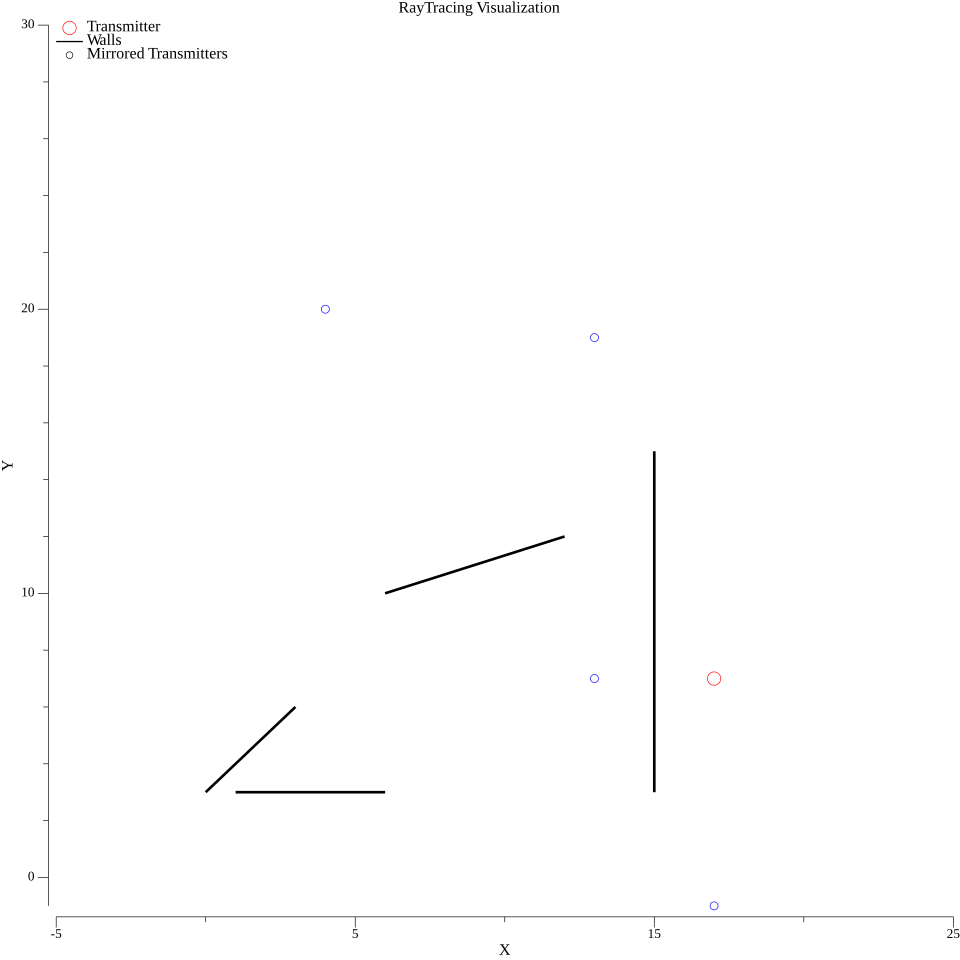
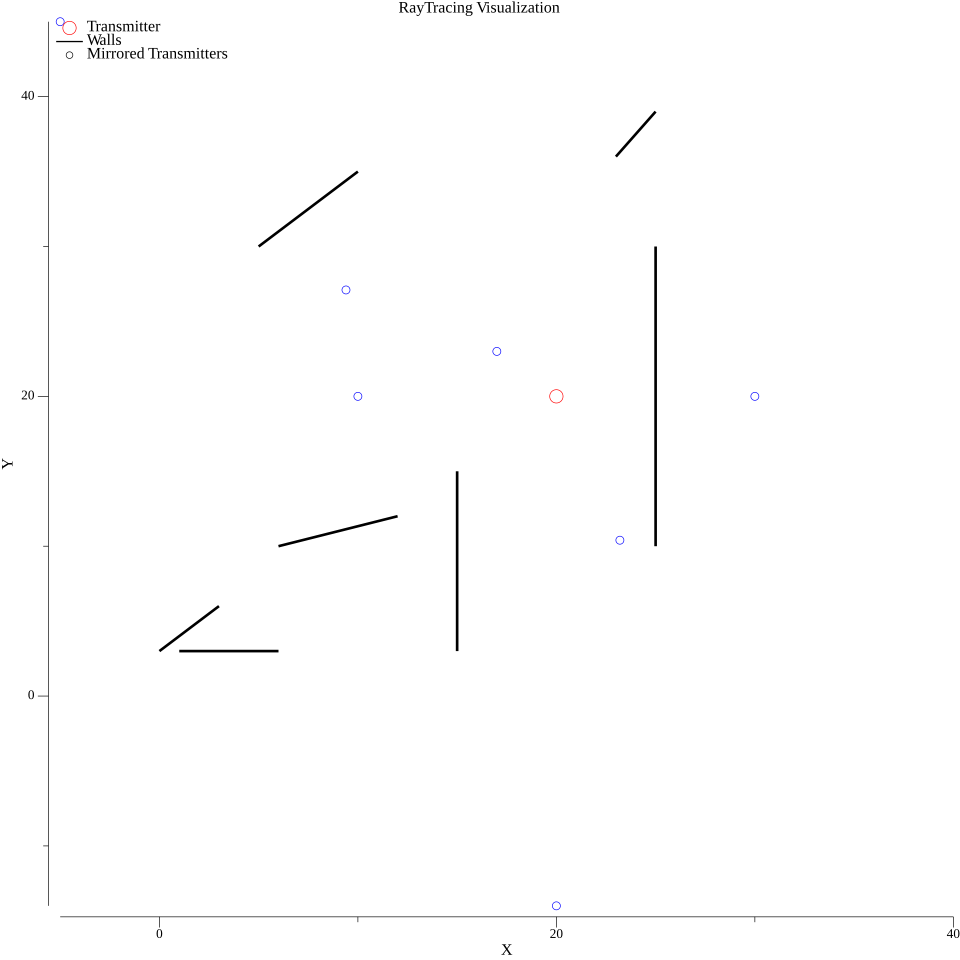
feat: display heat map added

diff --git a/backendGo/utils/2draytracing/main.go b/backendGo/utils/2draytracing/main.go
@@ -1,15 +1,16 @@
 package main
 
 import (
+	"os"
 	"fmt"
-	"image/color"
 	"math"
 	"math/cmplx"
-
+	"image"
+    "image/color"
+    "image/png"
 	"gonum.org/v1/plot"
     "gonum.org/v1/plot/plotter"
     "gonum.org/v1/plot/vg"
-    "gonum.org/v1/plot/palette"
 )
 type Point struct {
 	X, Y float64
@@ -173,80 +174,30 @@ func twoVectors(A, B, C, D Point) int8 {
 }
 
 // Interpolacja kolorów między niebieskim a czerwonym
-func interpolateColor(value, min, max float64) color.RGBA {
-    norm := (value - min) / (max - min) // Normalizacja do zakresu [0,1]
-    r := uint8(255 * norm)
-    g := uint8(0)
-    b := uint8(255 * (1 - norm))
-    return color.RGBA{R: r, G: g, B: b, A: 255}
-}
 
 func (rt *RayTracing) PlotVisualization(filename string) error {
     p := plot.New()
-    p.Title.Text = "RayTracing Heatmap"
+    p.Title.Text = "RayTracing Visualization"
     p.X.Label.Text = "X"
     p.Y.Label.Text = "Y"
-
-    // Określenie zakresu wykresu
-    xMin, xMax := 0.0, rt.Matrix[0][len(rt.Matrix[0])-1].X
-    yMin, yMax := 0.0, rt.Matrix[len(rt.Matrix)-1][0].Y
-
-    // Normalizacja osi
-    xRange := xMax - xMin
-    yRange := yMax - yMin
-    if xRange > yRange {
-        diff := (xRange - yRange) / 2
-        yMin -= diff
-        yMax += diff
-    } else {
-        diff := (yRange - xRange) / 2
-        xMin -= diff
-        xMax += diff
-    }
-    p.X.Min, p.X.Max = xMin, xMax
-    p.Y.Min, p.Y.Max = yMin, yMax
-
-    // Znalezienie minimalnej i maksymalnej wartości mocy
-    minPower, maxPower := math.Inf(1), math.Inf(-1)
-    for i := range rt.PowerMap {
-        for j := range rt.PowerMap[i] {
-            if rt.PowerMap[i][j] < minPower {
-                minPower = rt.PowerMap[i][j]
-            }
-            if rt.PowerMap[i][j] > maxPower {
-                maxPower = rt.PowerMap[i][j]
-            }
-        }
-    }
-
-    // Rysowanie mapy cieplnej
-    heatmap := make(plotter.XYs, 0)
-    colors := make([]color.RGBA, 0)
-    for i := range rt.Matrix {
-        for j := range rt.Matrix[i] {
-            heatmap = append(heatmap, plotter.XY{
-                X: rt.Matrix[i][j].X,
-                Y: rt.Matrix[i][j].Y,
-            })
-            colors = append(colors, interpolateColor(rt.PowerMap[i][j], minPower, maxPower))
-        }
-    }
-    scatter, err := plotter.NewScatter(heatmap)
-    if err != nil {
-        return err
-    }
-    scatter.GlyphStyle.Radius = vg.Points(2)
-    scatter.GlyphStyle.Color = color.Transparent // Ustawienie koloru przez własną mapę
-    scatter.ColorMap = plotter.ColorMapFunc(func(x, y float64) color.Color {
-        for k, pt := range heatmap {
-            if pt.X == x && pt.Y == y {
-                return colors[k]
-            }
-        }
-        return color.Black
-    })
-    p.Add(scatter)
-
+    // Ustalanie jednakowej skali dla osi X i Y
+	xMin, xMax := 0.0, rt.Matrix[0][len(rt.Matrix[0])-1].X
+	yMin, yMax := 0.0, rt.Matrix[len(rt.Matrix)-1][0].Y
+	xRange := xMax - xMin
+	yRange := yMax - yMin
+	// Wybieramy większy zakres i dopasowujemy mniejszy
+	if xRange > yRange {
+		diff := (xRange - yRange) / 2
+		yMin -= diff
+		yMax += diff
+	} else {
+		diff := (yRange - xRange) / 2
+		xMin -= diff
+		xMax += diff
+	}
+	// Ustawienie zakresu wykresu po korekcie
+	p.X.Min, p.X.Max = xMin, xMax
+	p.Y.Min, p.Y.Max = yMin, yMax
     // Rysowanie ścian
     for _, wall := range rt.Walls {
         line := plotter.XYs{
@@ -257,31 +208,123 @@ func (rt *RayTracing) PlotVisualization(filename string) error {
         if err != nil {
             return err
         }
-        l.Color = color.Black
+        l.Color = color.RGBA{R: 0, G: 0, B: 0, A: 255}
         l.Width = vg.Points(2)
         p.Add(l)
     }
-
     // Rysowanie transmitera
-    transmitter := plotter.XYs{{X: rt.TransmitterPos.X, Y: rt.TransmitterPos.Y}}
-    tScatter, err := plotter.NewScatter(transmitter)
+    transmitter := plotter.XYs{
+        {X: rt.TransmitterPos.X, Y: rt.TransmitterPos.Y},
+    }
+    transmitterScatter, err := plotter.NewScatter(transmitter)
     if err != nil {
         return err
     }
-    tScatter.Color = color.RGBA{R: 255, G: 0, B: 0, A: 255}
-    tScatter.Radius = vg.Points(5)
-    p.Add(tScatter)
-
+    transmitterScatter.Color = color.RGBA{R: 255, G: 0, B: 0, A: 255}
+    transmitterScatter.Radius = vg.Points(5)
+    p.Add(transmitterScatter)
+    // Rysowanie odbitych transmiterów
+    for _, mt := range rt.MirroredTransmitters {
+        mirroredTransmitter := plotter.XYs{
+            {X: mt.X, Y: mt.Y},
+        }
+        mtScatter, err := plotter.NewScatter(mirroredTransmitter)
+        if err != nil {
+            return err
+        }
+        mtScatter.Color = color.RGBA{R: 0, G: 0, B: 255, A: 255}
+        mtScatter.Radius = vg.Points(3)
+        p.Add(mtScatter)
+    }
+    // Dodanie legendy
+    p.Legend.Add("Transmitter", transmitterScatter)
+    
+    // Tworzymy linię dla legendy
+    legendLine, err := plotter.NewLine(plotter.XYs{{X: 0, Y: 0}, {X: 1, Y: 1}})
+    if err != nil {
+        return err
+    }
+    p.Legend.Add("Walls", legendLine)
+    
+    // Tworzymy punkt dla legendy
+    legendPoint, err := plotter.NewScatter(plotter.XYs{{X: 0, Y: 0}})
+    if err != nil {
+        return err
+    }
+    p.Legend.Add("Mirrored Transmitters", legendPoint)
+    
+    p.Legend.Top = true
+    p.Legend.Left = true
+    // Zapisanie wykresu do pliku
     return p.Save(10*vg.Inch, 10*vg.Inch, filename)
+}
+// GenerateHeatmap tworzy mapę ciepła z tablicy 2D wartości
+func GenerateHeatmap(powerMap [][]float64) *image.RGBA {
+    height := len(powerMap)
+    width := len(powerMap[0])
+    
+    // Znajdź min i max wartości do normalizacji
+    minVal, maxVal := math.Inf(1), math.Inf(-1)
+    for y := 0; y < height; y++ {
+        for x := 0; x < width; x++ {
+            val := powerMap[y][x]
+            if val < minVal {
+                minVal = val
+            }
+            if val > maxVal {
+                maxVal = val
+            }
+        }
+    }
+    
+    // Utwórz nowy obraz
+    img := image.NewRGBA(image.Rect(0, 0, width, height))
+    
+    // Wypełnij obraz kolorami
+    for y := 0; y < height; y++ {
+        // Odwracamy współrzędną Y
+        yFlipped := height - 1 - y
+        
+        for x := 0; x < width; x++ {
+            // Normalizuj wartość do zakresu 0-1
+            normalizedVal := (powerMap[y][x] - minVal) / (maxVal - minVal)
+            
+            // Konwertuj na kolor (używając przejścia od niebieskiego przez zielony do czerwonego)
+            r, g, b := getHeatmapColor(normalizedVal)
+            // Używamy odwróconej współrzędnej Y
+            img.Set(x, yFlipped, color.RGBA{r, g, b, 255})
+        }
+    }
+    
+    return img
+}
+
+// getHeatmapColor zwraca kolor RGB dla znormalizowanej wartości (0-1)
+func getHeatmapColor(value float64) (uint8, uint8, uint8) {
+    // Przejście kolorów: niebieski -> cyjan -> zielony -> żółty -> czerwony
+    switch {
+    case value < 0.25:
+        // niebieski do cyjan
+        return 0, uint8(255 * value * 4), 255
+    case value < 0.5:
+        // cyjan do zielony
+        return 0, 255, uint8(255 * (2 - value*4))
+    case value < 0.75:
+        // zielony do żółty
+        return uint8(255 * (value*4 - 2)), 255, 0
+    default:
+        // żółty do czerwony
+        return 255, uint8(255 * (4 - value*4)), 0
+    }
 }
 
 func main() {
-	matrixDimensions := Point{X:20, Y:30}
-	transmitterPos := Point{X:17, Y:7}
+	matrixDimensions := Point{X:40, Y:40}
+	transmitterPos := Point{X:20, Y:20}
 	transmitterPower := 10.0 // mW
 	transmitterFreq := 2.4   // GHz
 	reflectionFactor := 0.8
-	walls := []Vector{{A:Point{X:0,Y:3}, B:Point{X:3,Y:6}}, {A:Point{X:1,Y:3}, B:Point{X:6,Y:3}}, {A:Point{X:6,Y:10}, B:Point{X:12,Y:12}}, {A:Point{X:15,Y:15}, B:Point{X:15,Y:3}}}
+	walls := []Vector{{A:Point{X:0,Y:3}, B:Point{X:3,Y:6}}, {A:Point{X:1,Y:3}, B:Point{X:6,Y:3}}, {A:Point{X:6,Y:10}, B:Point{X:12,Y:12}}, {A:Point{X:15,Y:15}, B:Point{X:15,Y:3}},{A:Point{X:25,Y:10}, B:Point{X:25,Y:30}},{A:Point{X:5,Y:30}, B:Point{X:10,Y:35}},{A:Point{X:23,Y:36}, B:Point{X:25,Y:39}}}
 
 	raytracing := NewRayTracing(matrixDimensions, transmitterPos, transmitterPower, transmitterFreq, reflectionFactor, walls)
 	fmt.Printf("%v", raytracing.MirroredTransmitters)
@@ -292,4 +335,10 @@ func main() {
         return
     }
     fmt.Println("Visualization saved to raytracing.png")
+	heatmap := GenerateHeatmap(raytracing.PowerMap)
+    
+    // Zapisz do pliku
+    f, _ := os.Create("heatmap.png")
+    defer f.Close()
+    png.Encode(f, heatmap)
 }
